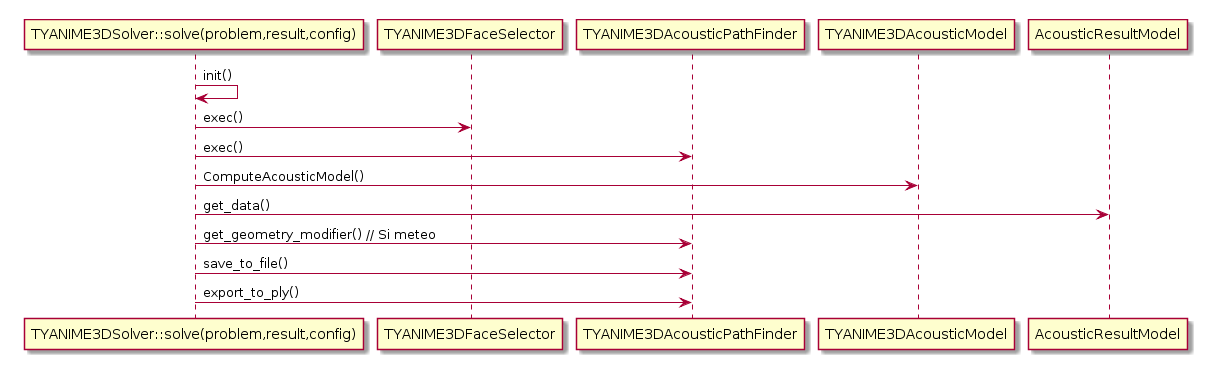
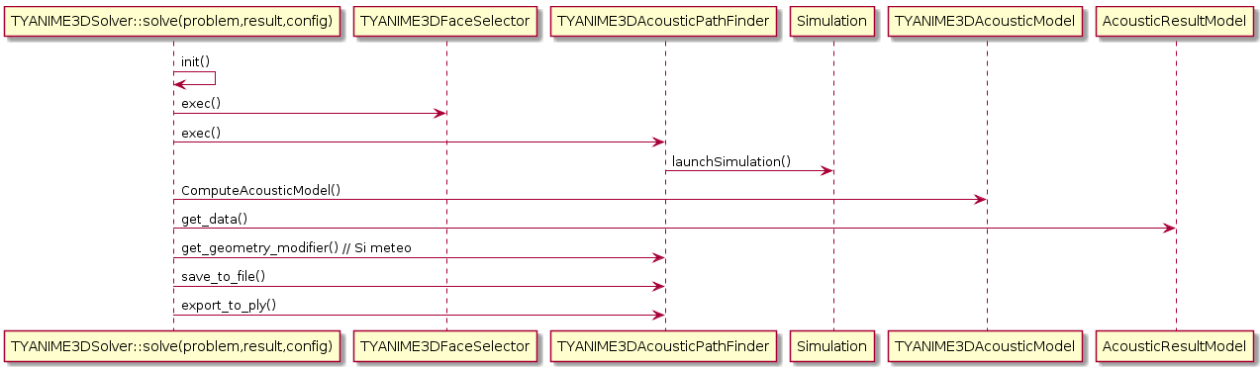
[Doc][#49] Add some links and Simulation class in the call graph for ANIME3D solver.

Changed region(s): [[0.0, 0.4173, 1.0, 0.9837], [0.0, 0.0, 1.0, 0.4173], [0.3358, 0.4173, 0.3969, 0.4472]]

diff --git a/doc/architecture.rst b/doc/architecture.rst
@@ -113,6 +113,7 @@ At the Tympan sources root, we find four directories:
   - ``solvers``: Solvers
 
 .. figure:: _build/doxygen/html/dir_0a699452fb3f72206b671d5471a45d39_dep.png
+   :target: ../doxygen/html/dir_0a699452fb3f72206b671d5471a45d39.html
    :align: center
    :scale: 100 % 
    
@@ -138,6 +139,7 @@ See the ``core`` and ``gui/tools`` directories and some sub-directories in ``mod
     vector, matrix, etc.
 
 .. figure:: _build/doxygen/html/dir_5dbfaf92f958cca7bf9f388ebf56af42_dep.png
+   :target: ../doxygen/html/dir_5dbfaf92f958cca7bf9f388ebf56af42.html
    :align: center
    :scale: 100 % 
    
@@ -529,17 +531,6 @@ The collaboration graph `[legend] <../doxygen/html/graph_legend.html>`_ of the A
    
 .. raw:: html
 
-    <embed><HR></HR></embed>  
-   
-.. figure:: _build/doxygen/html/classmeteo__coll__graph.png
-   :target:     ../doxygen/html/classmeteo.html
-   :align: center
-   :scale: 100 % 
-
-   **meteo class**
-   
-.. raw:: html
-
     <embed><HR></HR></embed> 
    
 .. figure:: _build/doxygen/html/classmeteoLin__coll__graph.png
@@ -679,15 +670,14 @@ The `Selector <../doxygen/html/classSelector.html>`_ classes offers different cr
    **Selectors**
    
    
-Example
--------
+Call graphs for Tympan solvers
+------------------------------
 
 First, it should be noticed than in the following Doxygen the order of calls graphs is NOT always from the top to the bottom.
 
 The complete call graph for the default solver can be find `here <../doxygen/html/classTYSolver_ac19b10b4e1bda0706371ce328d5958e6_cgraph.png>`_ .
-
     
-A simplified call graph is:  
+A simplified call graph is (click to enlarge):  
 
 .. figure:: _static/built_resources/TYSolverCallGraph.png
    :align: center
@@ -721,7 +711,7 @@ A simplified call graph is:
    @enduml
 
 For the ANIME3D solver, the complete call graph is `there <../doxygen/html/classTYANIME3DSolver_a6a334771eddce5341642add8f8597639_cgraph.png>`_ .
-A simplified call graph is:
+A simplified call graph is (click to enlarge):
 
 .. figure:: _static/built_resources/TYANIME3DSolverCallGraph.png
    :align: center
@@ -750,7 +740,7 @@ A simplified call graph is:
   
    @enduml
 
-Python call graph to C++ solver TYANIME3DSolver:
+Python call graph to C++ solver TYANIME3DSolver (click to enlarge):
 
 .. figure:: _static/built_resources/PythonCallGraph.png
    :align: center
